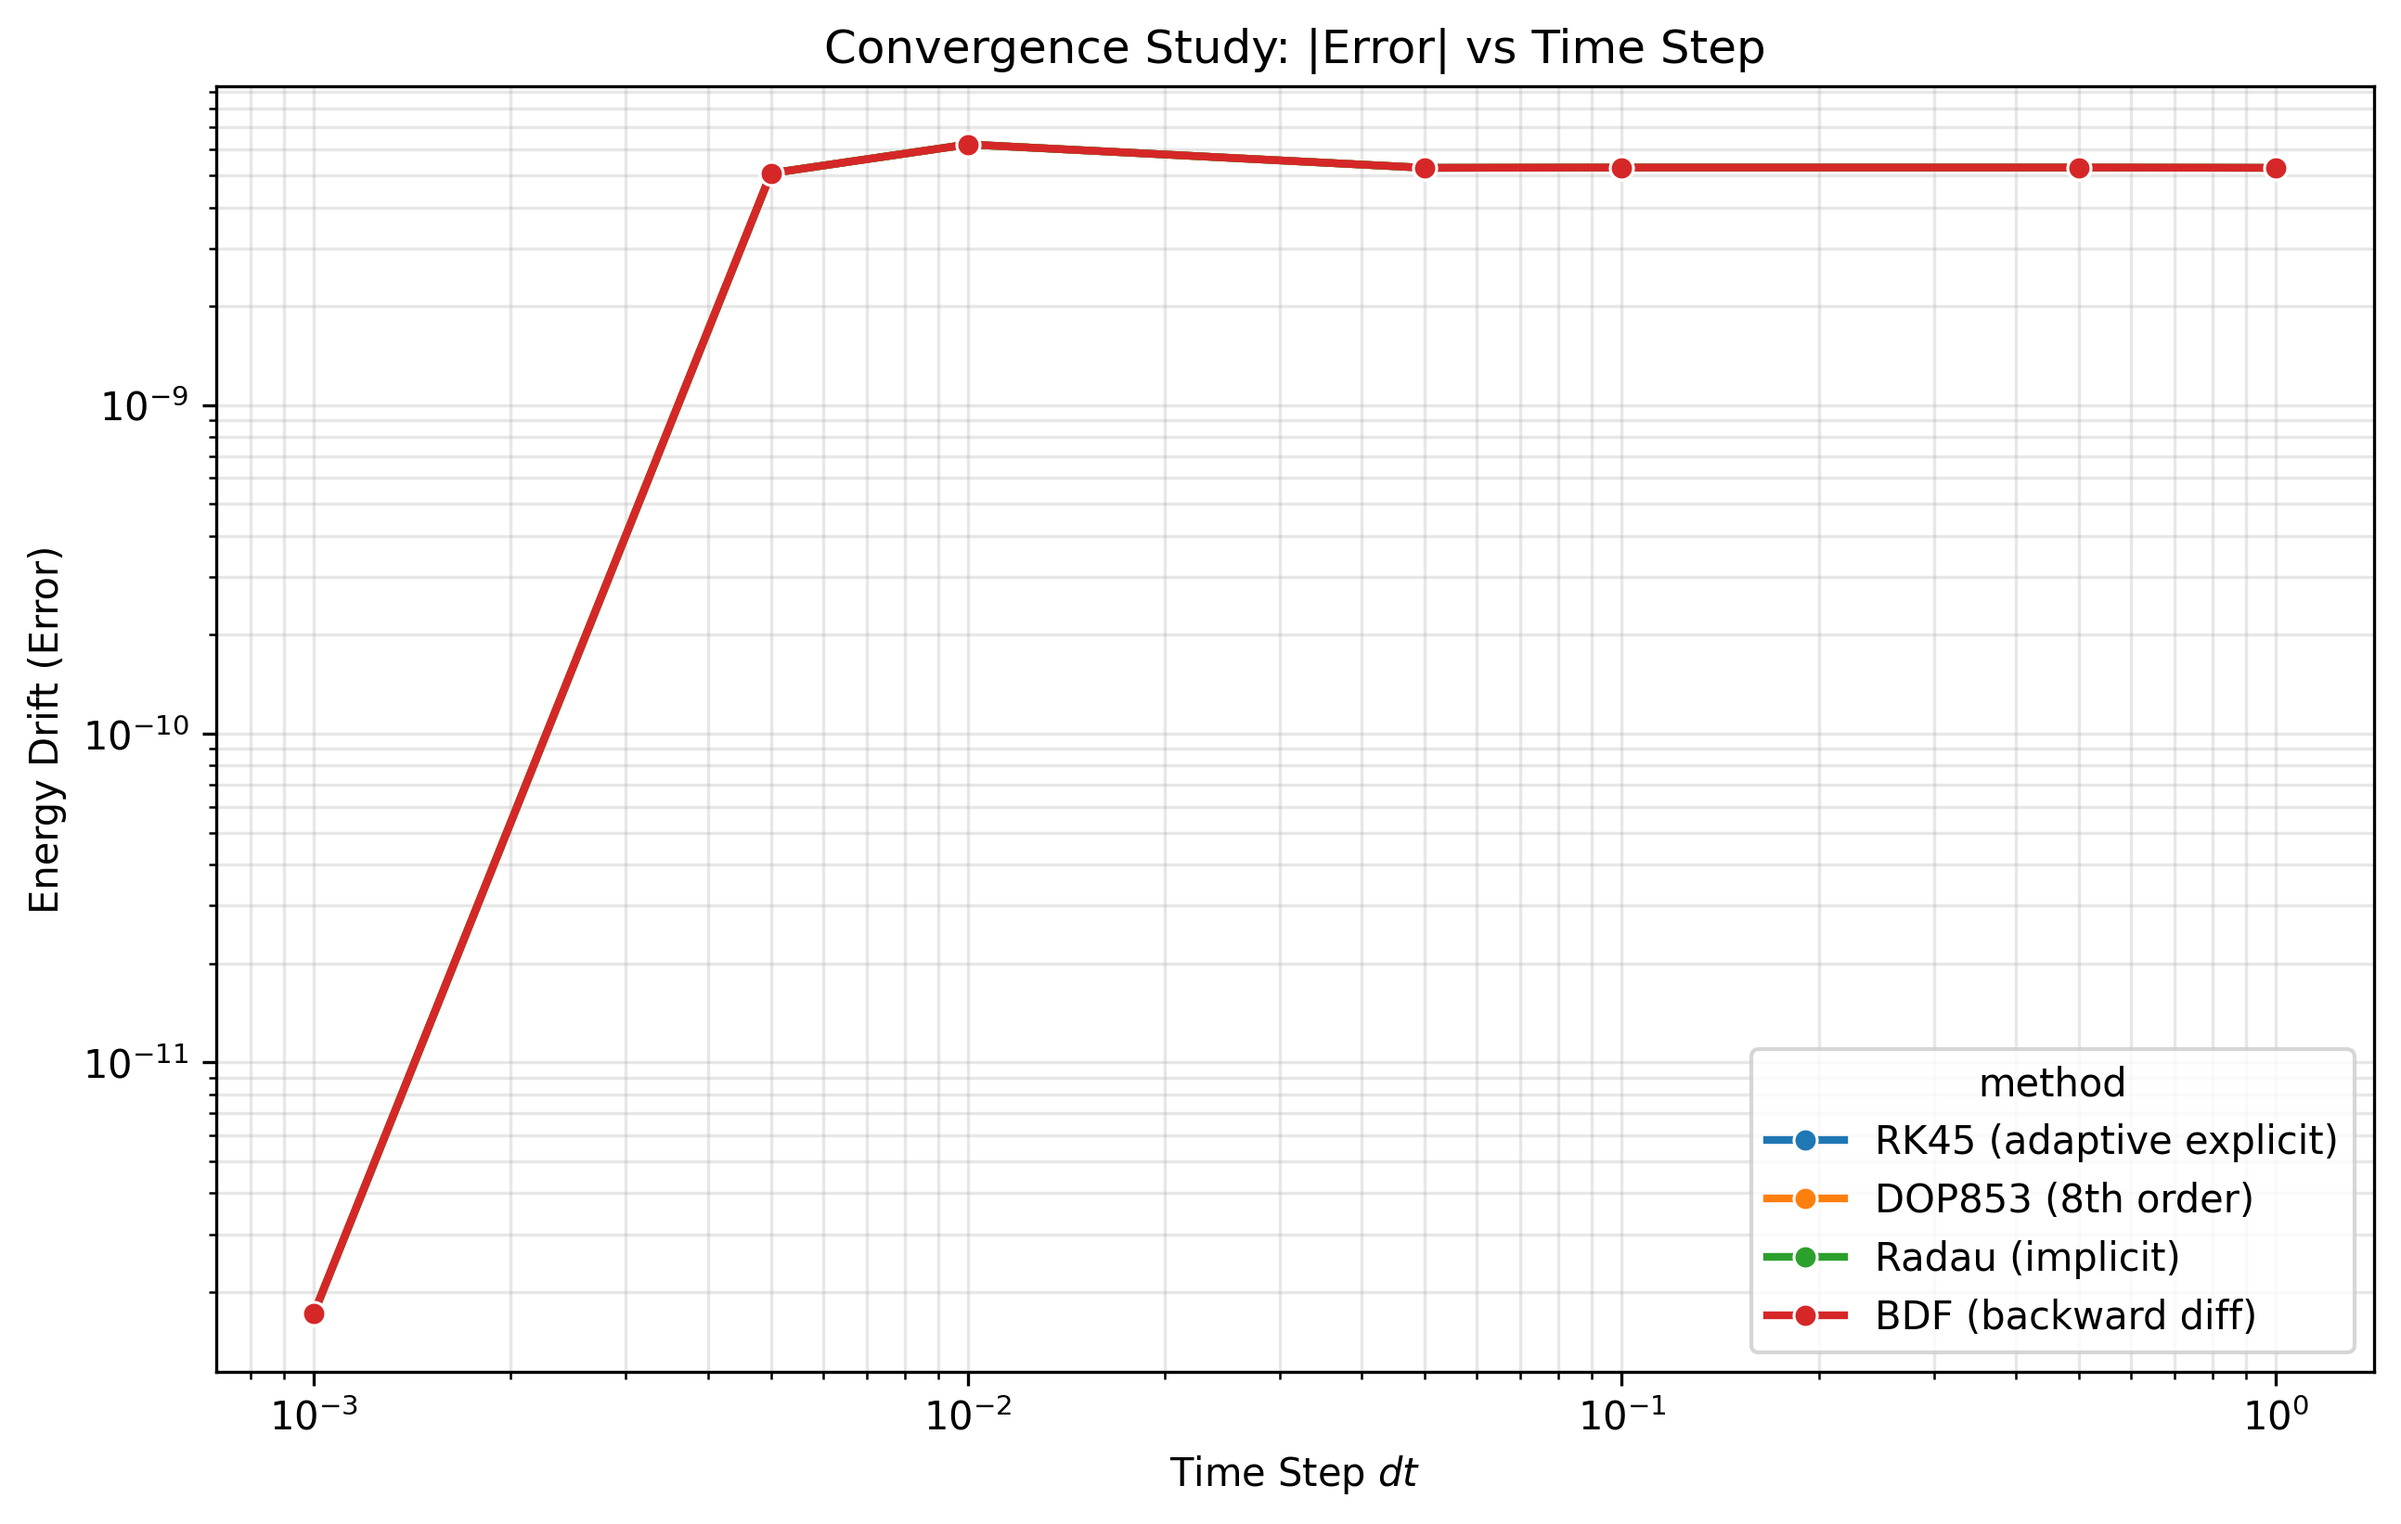
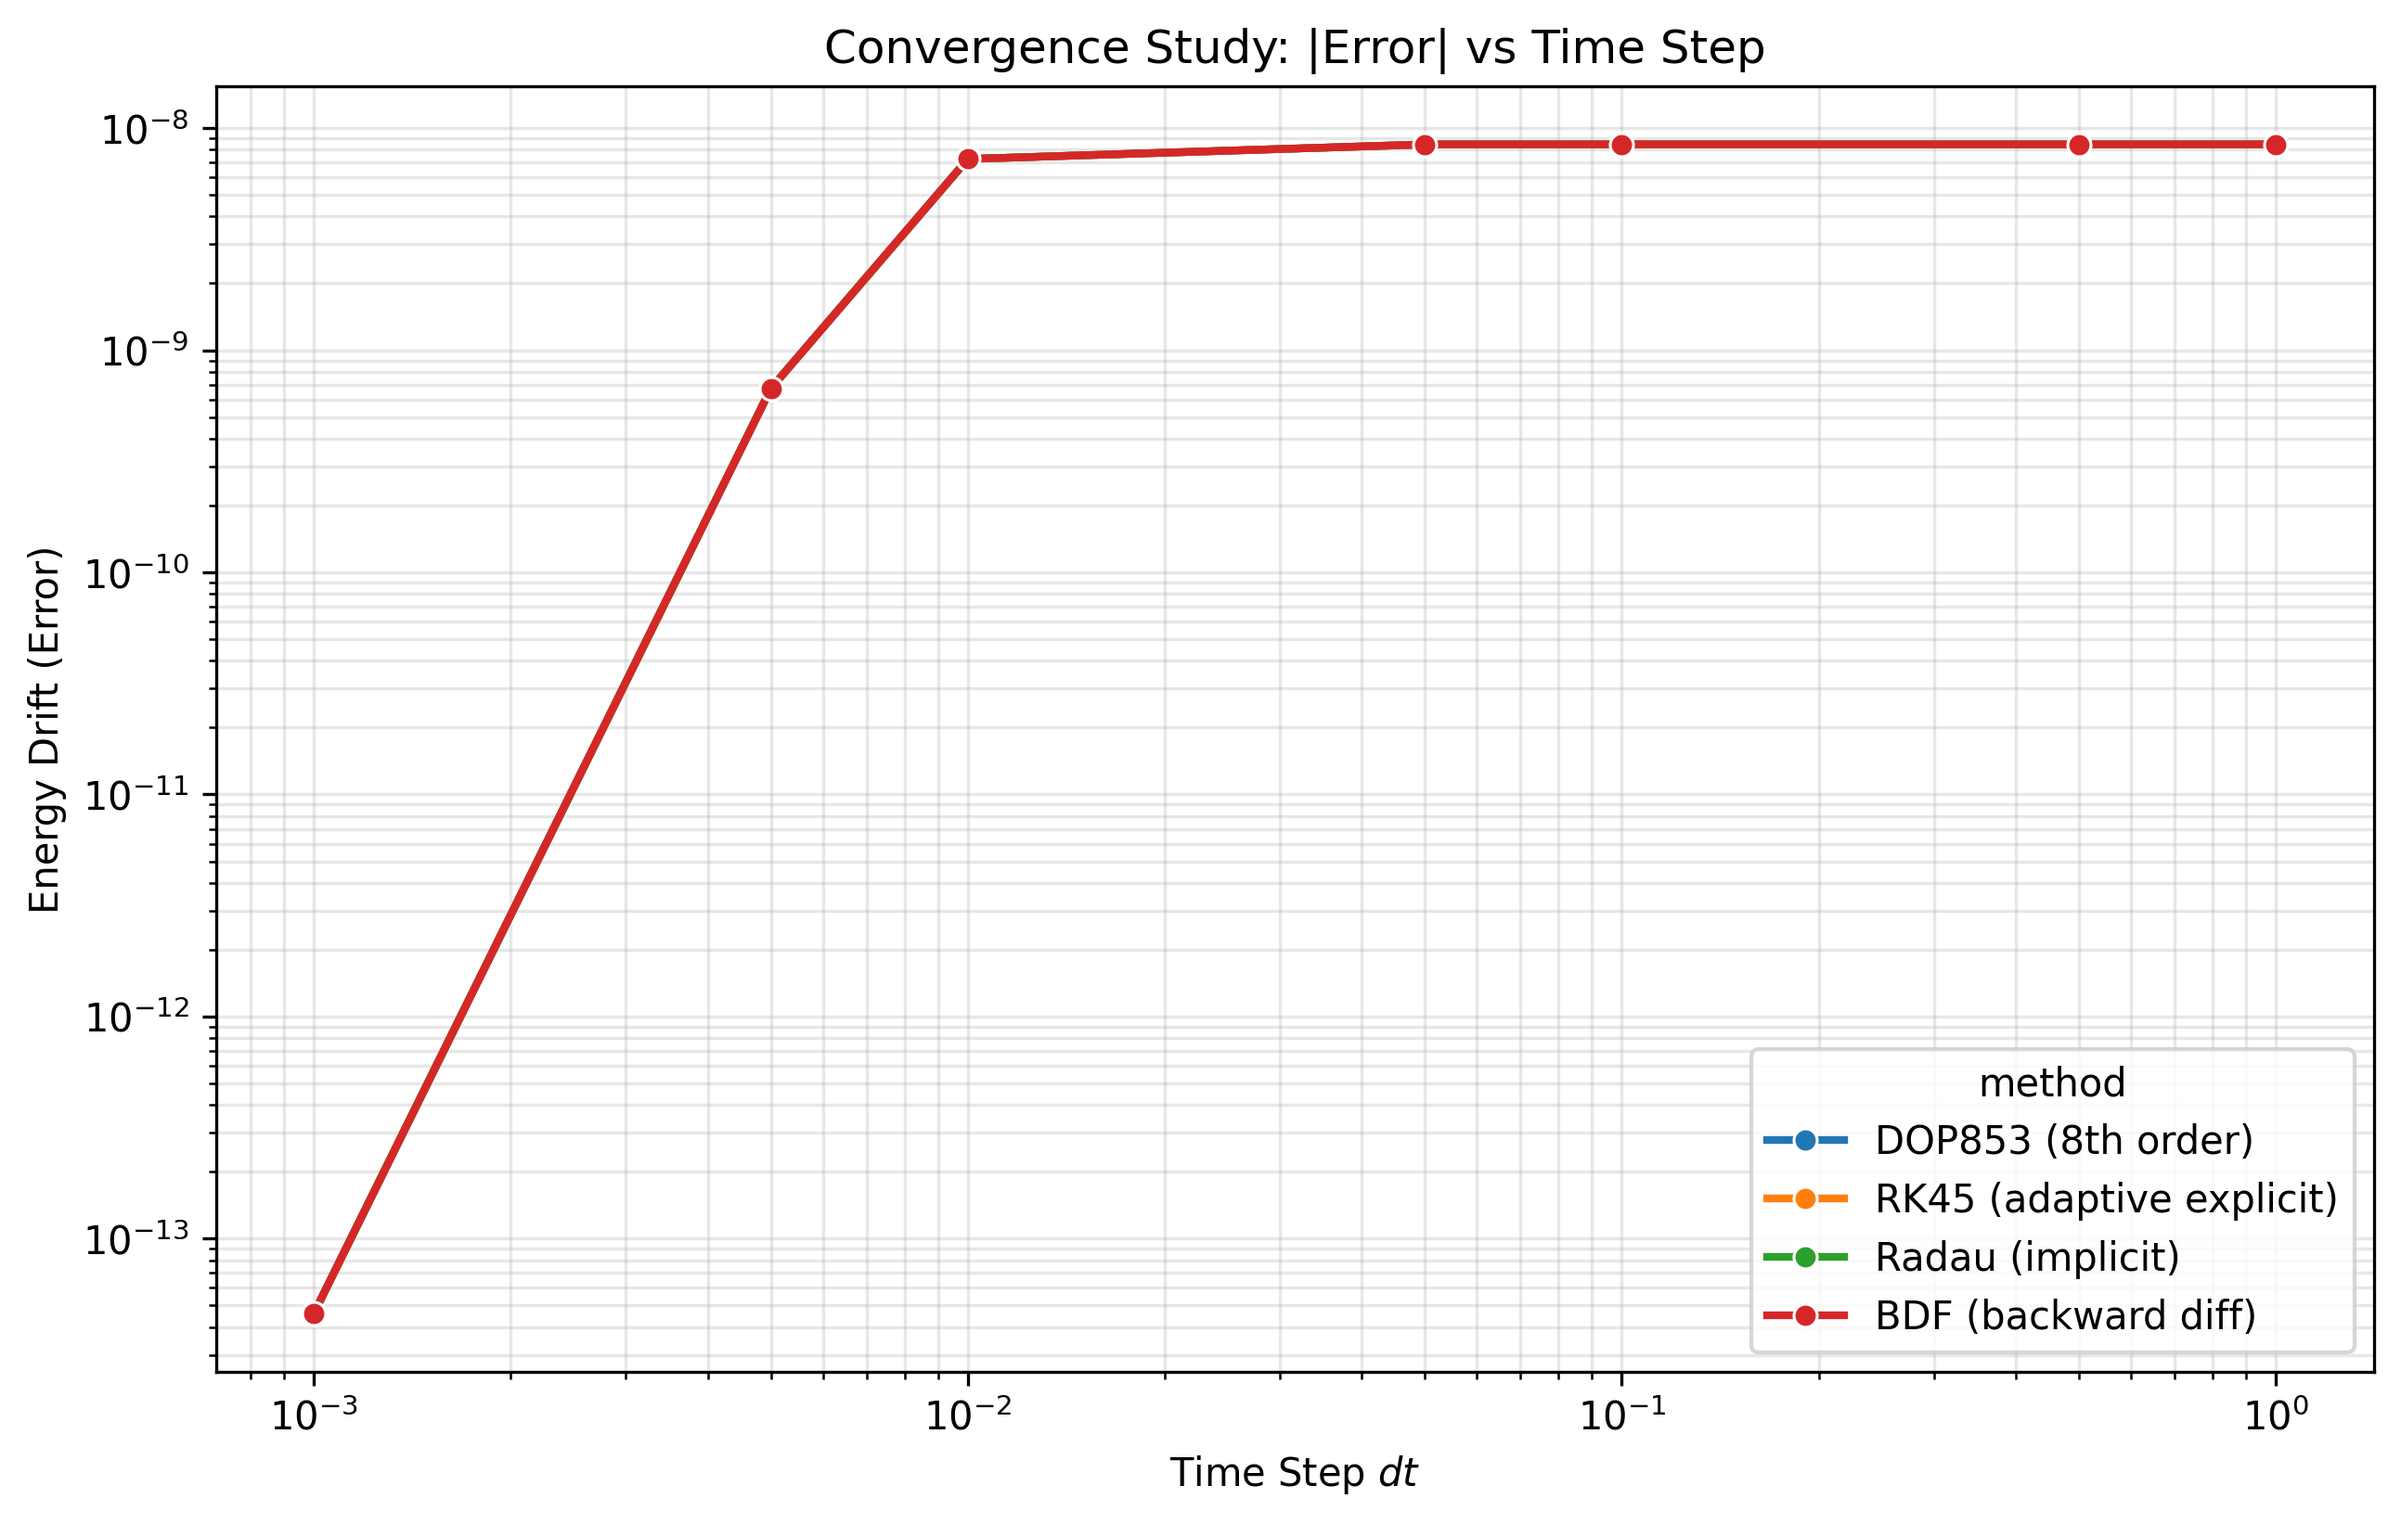
Nuevas figuras con DOP

diff --git a/oscillatory_motion/special_oscillation/double_pendulum/errors_graphics.py b/oscillatory_motion/special_oscillation/double_pendulum/errors_graphics.py
@@ -46,7 +46,7 @@ class Params:
     L2: float = 2.0  # m
 
     theta1_0: float = np.deg2rad(45)
-    theta2_0: float = np.deg2rad(0)
+    theta2_0: float = np.deg2rad(45)
     omega1_0: float = 0.0
     omega2_0: float = 0.0
 
@@ -177,7 +177,7 @@ def heatmaps(grid: Dict) -> plt.Figure:
     return fig
 
 
-def drift_energy_comparison(dt: Sequence[float], results_dict: Dict, method_name: str = "Radau (implicit)") -> Tuple[plt.Figure, plt.Figure]:
+def drift_energy_comparison(dt: Sequence[float], results_dict: Dict, method_name: str = "DOP853 (8th order)") -> Tuple[plt.Figure, plt.Figure]:
     """
     Plot the drift in total energy over time.
 
@@ -210,6 +210,7 @@ def drift_energy_comparison(dt: Sequence[float], results_dict: Dict, method_name
     ax1.set_title(f"Total Energy Drift Over Time — {method_name}")
     ax1.set_xlabel("Time (s)")
     ax1.set_ylabel(r"Energy Drift $|E(t) - E(0)|$ [J]")
+    ax1.set_xlim([0,15])
     ax1.legend()
     ax1.grid(True, alpha=0.3)
     ax1.set_yscale("symlog")
@@ -238,6 +239,7 @@ def drift_energy_comparison(dt: Sequence[float], results_dict: Dict, method_name
     ax2.set_title(f"Total Energy Drift Across Methods — dt={min_step}")
     ax2.set_xlabel("Time (s)")
     ax2.set_ylabel(r"Energy Drift $|E(t) - E(0)|$ [J]")
+    ax2.set_xlim([0,15])
     ax2.legend()
     ax2.grid(True, alpha=0.3)
     ax2.set_yscale("symlog")
@@ -385,8 +387,8 @@ def kde_phase_space_subplots(results_dict: Dict) -> plt.Figure:
     """
 
     # ---- Choose smallest dt ----
-    time_step = min(results_dict["Radau (implicit)"].keys())
-    result, analysis = results_dict["Radau (implicit)"][time_step]
+    time_step = min(results_dict["DOP853 (8th order)"].keys())
+    result, analysis = results_dict["DOP853 (8th order)"][time_step]
 
     # ---- Extract solution arrays ----
     # Case 1: Your custom result object with attributes
@@ -439,7 +441,7 @@ def kde_phase_space_subplots(results_dict: Dict) -> plt.Figure:
 ##
 # -------------------------- Compute each instance -----------------------
 ##
-def compute(dt: Sequence[float], time: int = 150, flag: bool = True,) -> Dict:
+def compute(dt: Sequence[float], time: int = 150, flag: bool = False,) -> Dict:
     """
     Compute energy drift and runtime for several integration methods.
 
@@ -460,8 +462,8 @@ def compute(dt: Sequence[float], time: int = 150, flag: bool = True,) -> Dict:
     params = Params()
 
     methods_to_test = [
-        ("RK45 (adaptive explicit)", IntegrationMethod.RK45, False),
         ("DOP853 (8th order)", IntegrationMethod.DOP853, False),
+        ("RK45 (adaptive explicit)", IntegrationMethod.RK45, False),
         ("Radau (implicit)", IntegrationMethod.RADAU, False),
         ("BDF (backward diff)", IntegrationMethod.BDF, False),
     ]
@@ -503,7 +505,7 @@ if __name__ == "__main__":
     dt_values = [1, 0.5, 0.1, 0.05, 0.01, 0.005, 0.001]
     
     print("Running simulations...")
-    results = compute(dt=dt_values, time=50, flag=False)
+    results = compute(dt=dt_values, time=50, flag=True)# Change the flag to compute the non-linearized system
     
     # Plotting Numerical Methods Results
     print("Plotting Convergence")
@@ -544,7 +546,7 @@ if __name__ == "__main__":
         fig_conv.savefig(os.path.join(route, "convergence_linearized.png"), dpi = 300, bbox_inches = "tight")
         fig_drift_method.savefig(os.path.join(route, "drift_energy_method_linearized.png"), dpi = 300, bbox_inches = "tight")
         fig_drift_dt.savefig(os.path.join(route, "drift_energy_dt_linearized.png"), dpi = 300, bbox_inches = "tight")
-        fig_phase1.savefig(os.path.join(route, "phase_density1_linearized.png"), dpi = 300, bbox_inches = "tight")
+        fig_phase1.savefig(os.path.join(route, "phase_density_linearized.png"), dpi = 300, bbox_inches = "tight")
         fig_time.savefig(os.path.join(route, "runtime_linearized.png"), dpi = 300, bbox_inches = "tight")
         fig_stab.savefig(os.path.join(route, "stability_linearized.png"), dpi = 300, bbox_inches = "tight")
         #fig_init.savefig(os.path.join(route, "initial_condition.png"), dpi = 300, bbox_inches = "tight")
